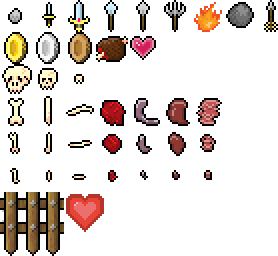
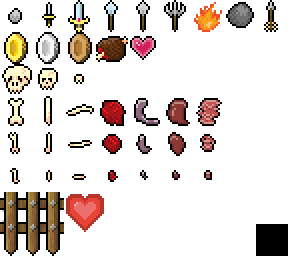
fixed knives upper/left only throwing 2 and fixing when i broke the goblin arrows with a new (too small) sprite sheet

diff --git a/htdocs/js/engine.js b/htdocs/js/engine.js
@@ -343,6 +343,10 @@ proto.initPlayer = function horde_Engine_proto_initPlayer () {
 	this.playerObjectId = this.addObject(player);
 	// TODO Get rid of default weapons for debugging
 	player.weapons.push({
+		type: "h_knife",
+		count: 100
+	});
+	player.weapons.push({
 		type: "h_trident",
 		count: 10
 	});
@@ -355,12 +359,12 @@ proto.initPlayer = function horde_Engine_proto_initPlayer () {
 		count: 20
 	});
 	player.weapons.push({
-		type: "h_knife",
-		count: 100
-	});
-	player.weapons.push({
 		type: "h_sword",
 		count: 30
+	});
+	player.weapons.push({
+		type: "h_knife",
+		count: 100
 	});
 };
 
@@ -995,14 +999,11 @@ horde.Engine.prototype.drawObjects = function (ctx) {
 			ctx.globalAlpha = o.alpha;
 		}
 		
-		try {
-			ctx.drawImage(
-				this.images.getImage(o.spriteSheet),
-				s.x, s.y, o.size.width, o.size.height,
-				-(o.size.width / 2), -(o.size.height / 2), o.size.width, o.size.height
-			);
-		} catch (e) {
-		}
+		ctx.drawImage(
+			this.images.getImage(o.spriteSheet),
+			s.x, s.y, o.size.width, o.size.height,
+			-(o.size.width / 2), -(o.size.height / 2), o.size.width, o.size.height
+		);
 
 		ctx.restore();
 

diff --git a/htdocs/js/base.js b/htdocs/js/base.js
@@ -112,6 +112,7 @@ horde.directions = {
 	UP_LEFT: 7,
 	toVector: function (d) {
 		if (d < 0) d += 8; // Fix for -1 should be UP_LEFT.
+		if (d > 7) d -= 8; // Fix for -1 should be UP_LEFT.
 		switch (d) {
 			case horde.directions.UP:
 				return new horde.Vector2(0, -1);
